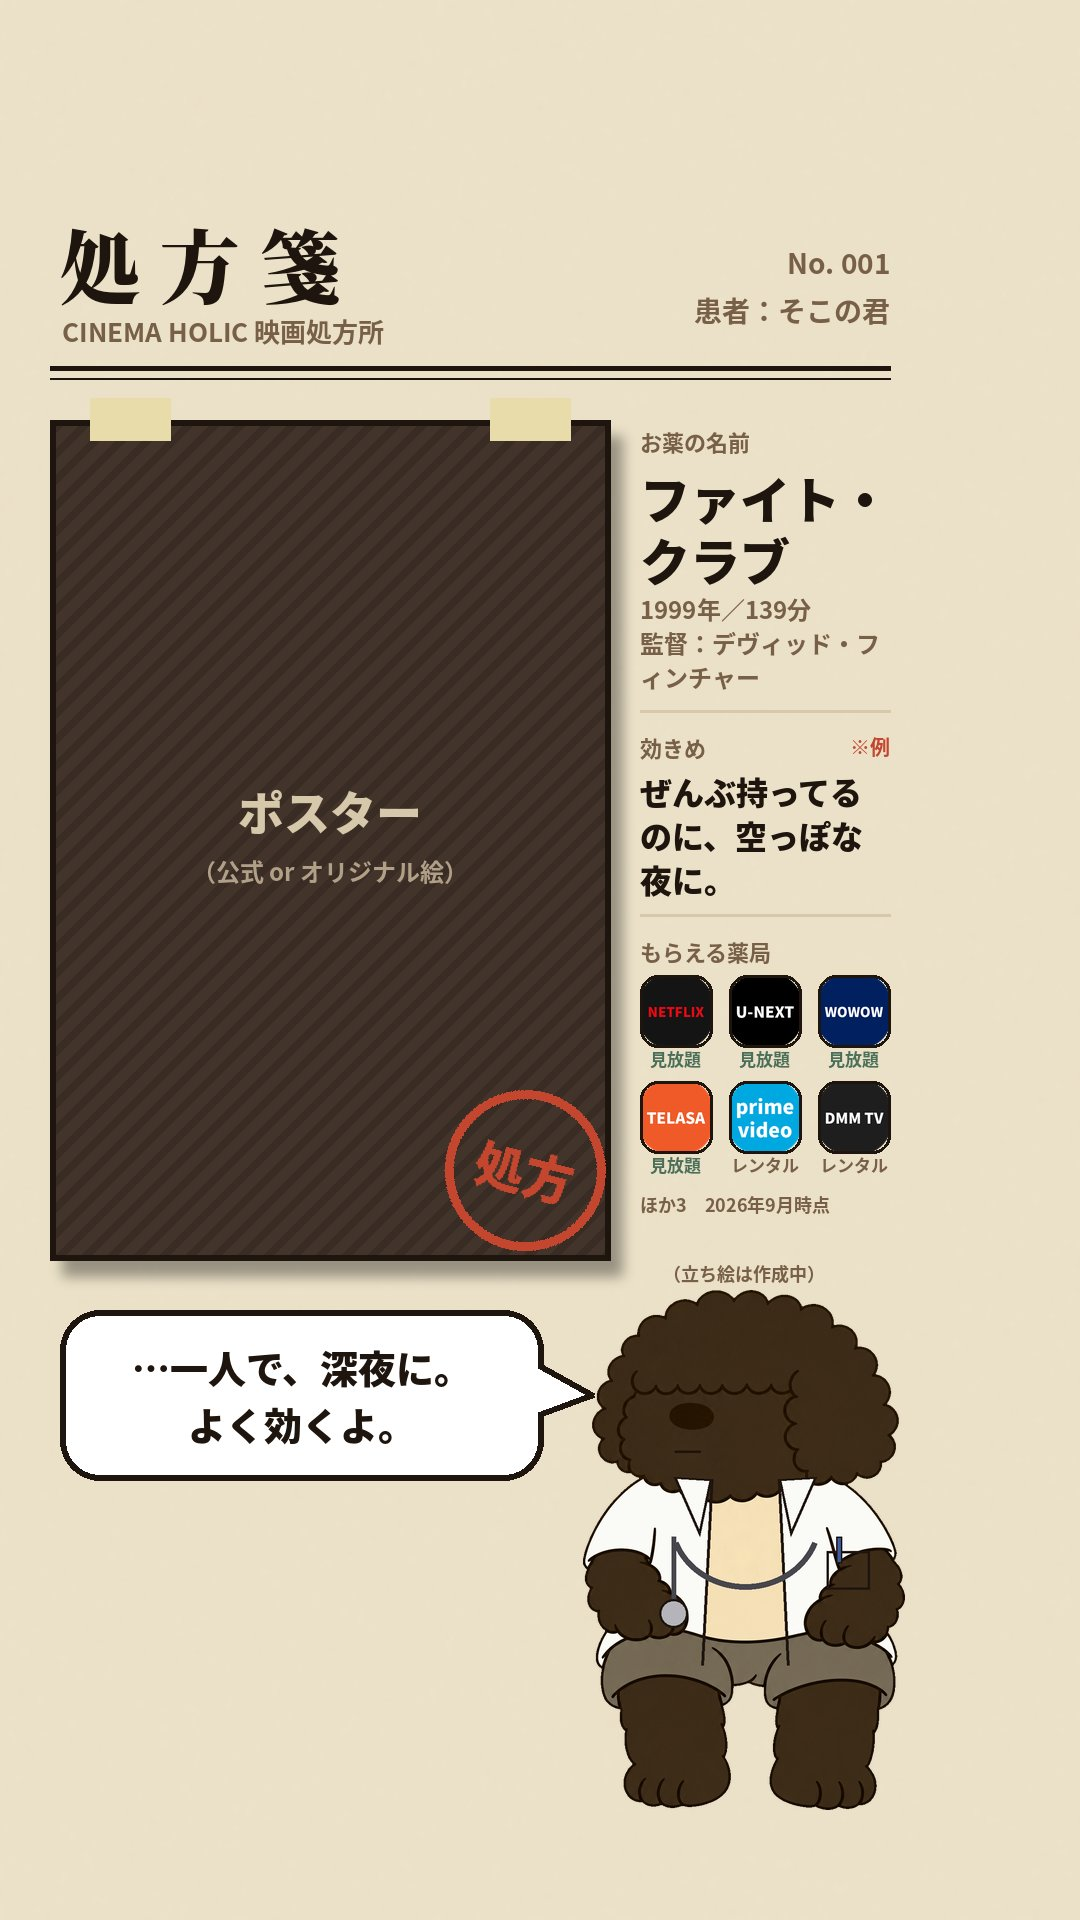
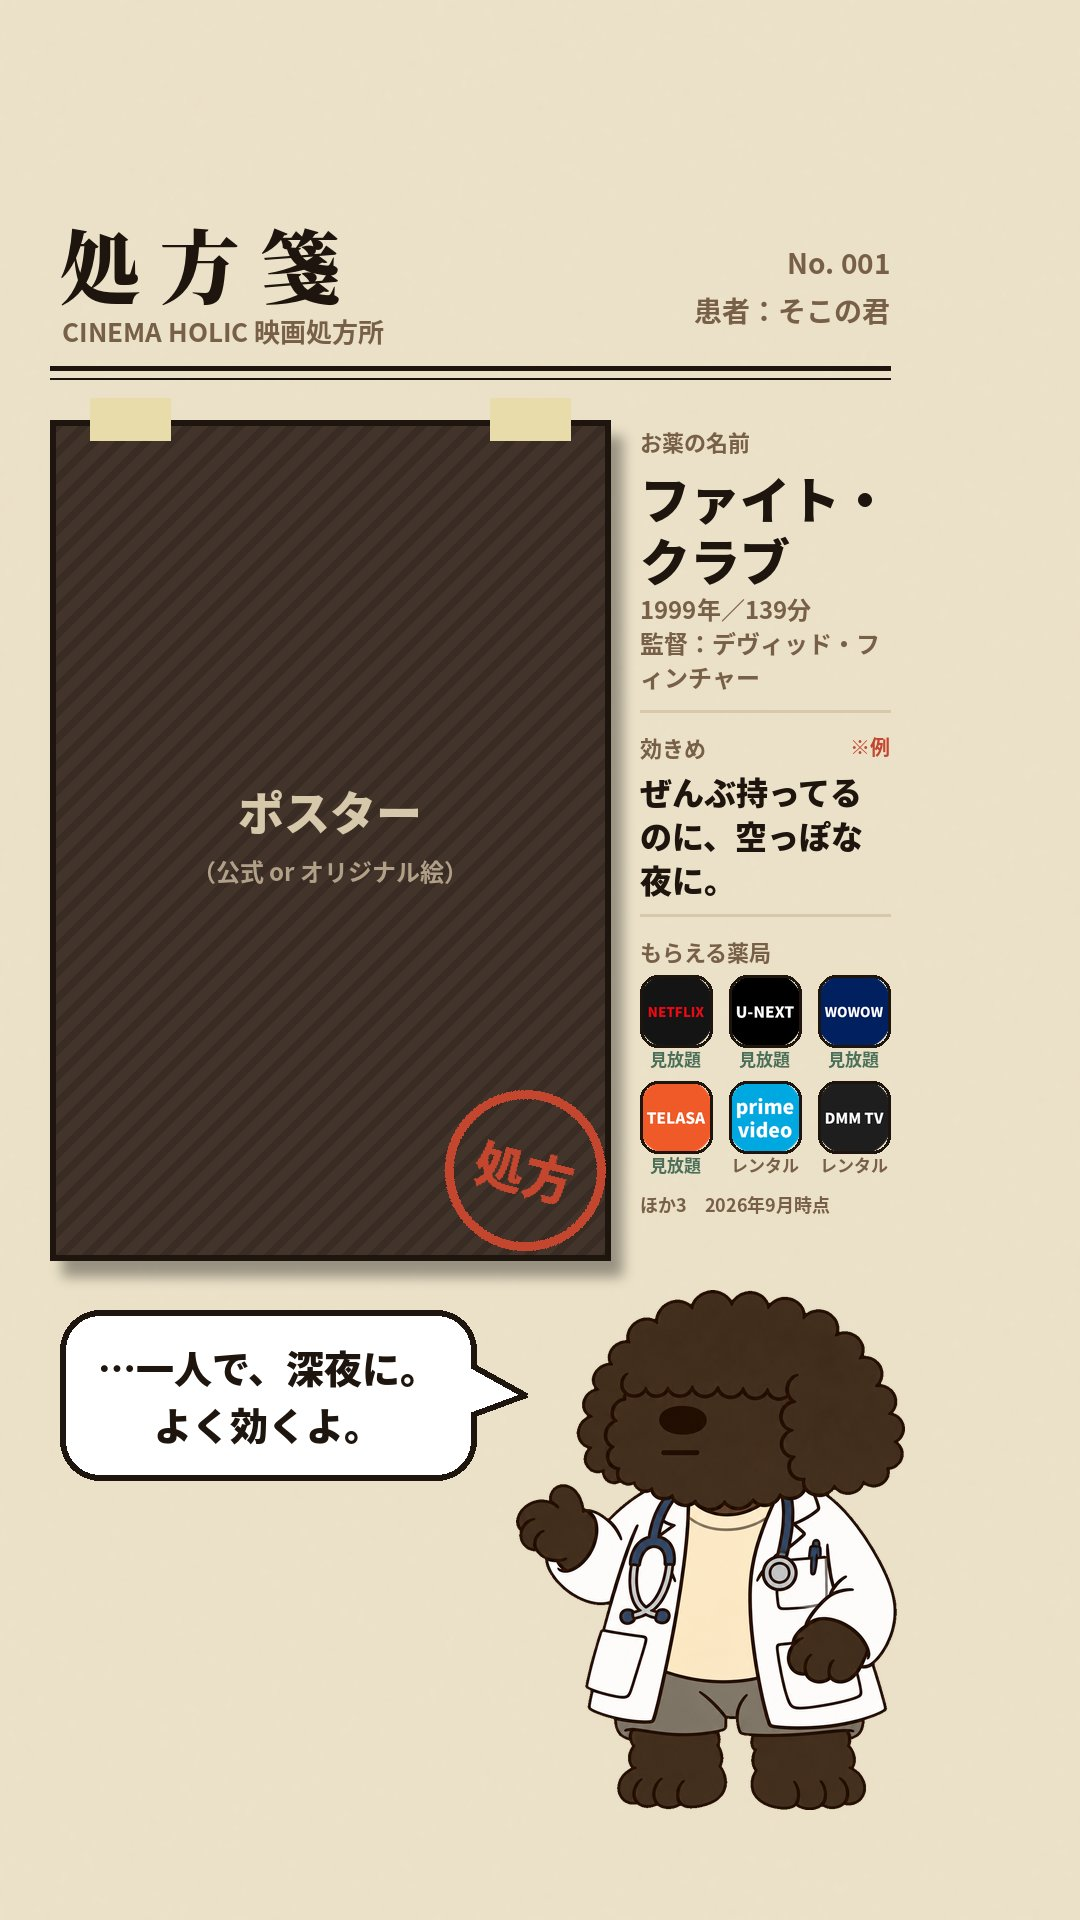
白衣のじょんどぅー（立ち絵）を登録し、映画紹介の画面に反映
Claude-Session: https://claude.ai/code/session_01333n6uA2jivLvtwjGtdnde

diff --git a/docs/movie-card.md b/docs/movie-card.md
@@ -4,7 +4,7 @@
 - 左：大きなポスター／右：お薬の名前（タイトル）・公開年・上映時間・監督・効きめ（ひと言）・もらえる薬局（配信サービス）
 - 右下：**白衣のじょんどぅー**がひと言（ふきだし）。はんこ「処方」
 - イメージ：`docs/storyboard/movie_intro_mock.jpg`（作り直し：`python3 renderer/preview/movie_intro.py <movie.json> <出力.png>`）
-- 白衣のじょんどぅーは、今はプログラムで白衣を描き足した仮。本番は服の素材として描き直す
+- 白衣のじょんどぅー（立ち絵）：`assets/characters/johndoe/doctor_stand.png`（ChatGPTで作成・背景と光を除去済み）
 
 （以前の試作：画面下からカードをせり上げる版 `renderer/preview/scene_demo.py`）
 
